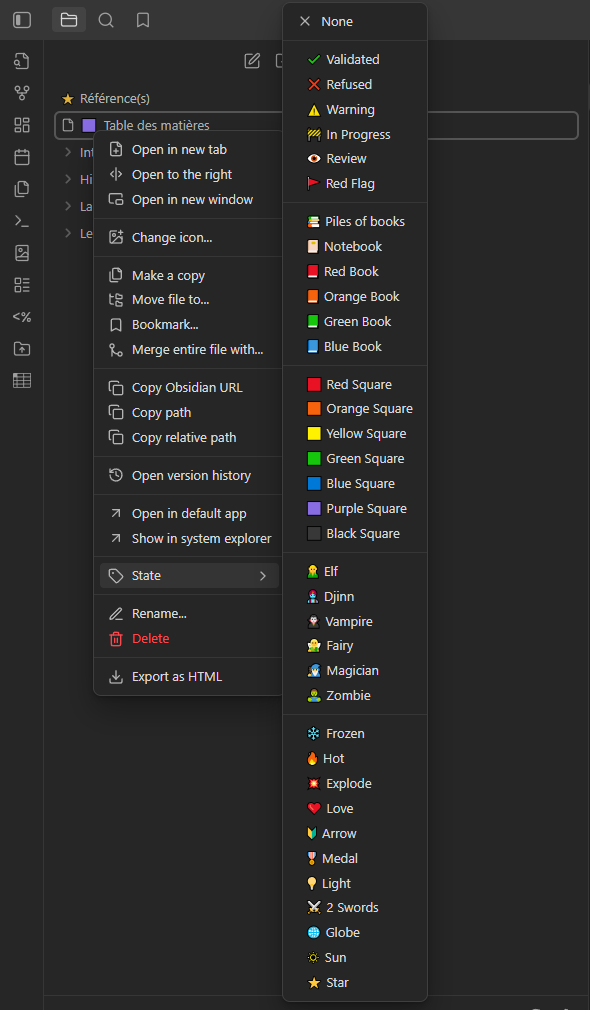
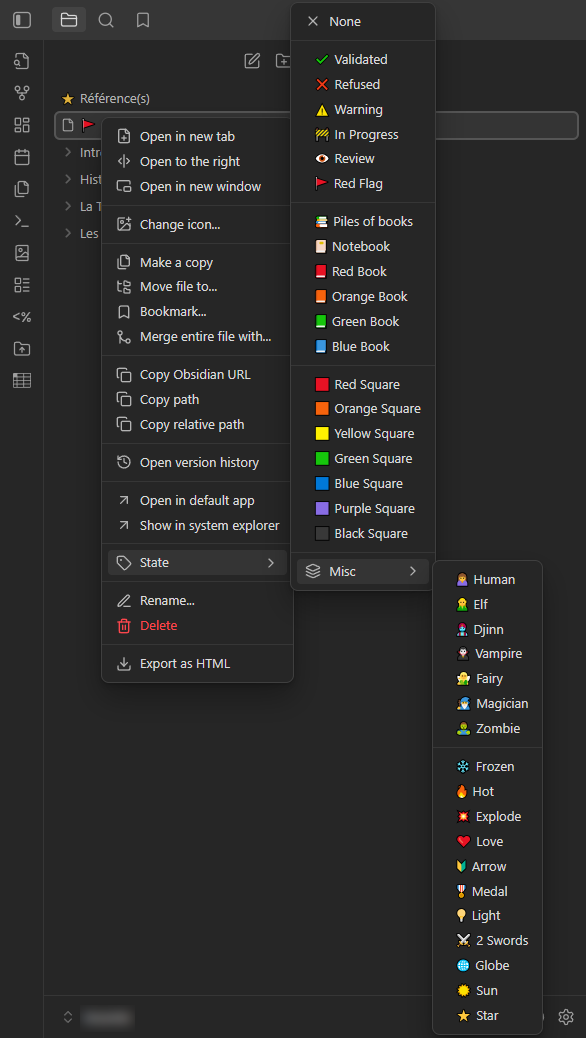
Add files via upload

diff --git a/main.js b/main.js
@@ -3,7 +3,7 @@ const { Plugin, TFolder } = require("obsidian");
 module.exports = class SwefNoteStateIconsPlugin extends Plugin {
 
   async onload() {
-    console.log("SWEF NOTE STATE ICONS LOADED");
+    console.log("Note State Icons Loaded");
 
     // ===== I18N =====
     await this.loadI18n();
@@ -35,15 +35,16 @@ module.exports = class SwefNoteStateIconsPlugin extends Plugin {
       "squarepurple": { icon: "🟪", color: "#000000", labelKey: "state.squarepurple" },
       "squareblack":  { icon: "⬛", color: "#000000", labelKey: "state.squareblack" },
 
-	  // --- Group 4 : Species ---
-	  "elf":       	  { icon: "🧝", color: "#000000", labelKey: "state.elf" },
-	  "djinn":        { icon: "🧞", color: "#000000", labelKey: "state.djinn" },
-	  "vampire":      { icon: "🧛", color: "#000000", labelKey: "state.vampire" },
-	  "fairy":        { icon: "🧚", color: "#000000", labelKey: "state.fairy" },
-	  "magician":     { icon: "🧙", color: "#000000", labelKey: "state.magician" },
-	  "zombie":       { icon: "🧟", color: "#000000", labelKey: "state.zombie" },
-      
-	  // --- Group 5 : Misc ---
+      // --- Group 4 : Species ---
+      "human":  	  { icon: "🙍", color: "#000000", labelKey: "state.human" },
+      "elf":          { icon: "🧝", color: "#000000", labelKey: "state.elf" },
+      "djinn":        { icon: "🧞", color: "#000000", labelKey: "state.djinn" },
+      "vampire":      { icon: "🧛", color: "#000000", labelKey: "state.vampire" },
+      "fairy":        { icon: "🧚", color: "#000000", labelKey: "state.fairy" },
+      "magician":     { icon: "🧙", color: "#000000", labelKey: "state.magician" },
+      "zombie":       { icon: "🧟", color: "#000000", labelKey: "state.zombie" },
+
+      // --- Group 5 : Misc ---
       "frozen":       { icon: "❄", color: "#000000", labelKey: "state.frozen" },
       "hot":          { icon: "🔥", color: "#000000", labelKey: "state.hot" },
       "explode":      { icon: "💥", color: "#000000", labelKey: "state.explode" },
@@ -53,13 +54,13 @@ module.exports = class SwefNoteStateIconsPlugin extends Plugin {
       "light":        { icon: "💡", color: "#000000", labelKey: "state.light" },
       "2swords":      { icon: "⚔", color: "#000000", labelKey: "state.2swords" },
       "globe":        { icon: "🌐", color: "#000000", labelKey: "state.globe" },
-      "sun":          { icon: "🔅", color: "#000000", labelKey: "state.sun" },
+      "sun":          { icon: "☀", color: "#000000", labelKey: "state.sun" },
       "star":         { icon: "⭐", color: "#000000", labelKey: "state.star" }
     };
 
     this.stateMap = (await this.loadData()) || {};
 
-    // ===== CONTEXT MENU (NOTES + DOSSIERS) =====
+    // ===== CONTEXT MENU =====
     this.registerEvent(
       this.app.workspace.on("file-menu", (menu, file) => {
         if (!file) return;
@@ -74,6 +75,7 @@ module.exports = class SwefNoteStateIconsPlugin extends Plugin {
 
         const stateMenu = menu.items.at(-1).submenu;
 
+        // NONE
         stateMenu.addItem(sub => {
           sub
             .setTitle(this.t("menu.none"))
@@ -87,30 +89,63 @@ module.exports = class SwefNoteStateIconsPlugin extends Plugin {
 
         stateMenu.addSeparator();
 
-        const groups = [
+        // ===== DIRECT STATES (GROUP 1,2,3) =====
+        [
           ["validated","refused","warning","in-progress","review","redflag"],
           ["bookpiles","notebook","bookred","bookorange","bookgreen","bookblue"],
-          ["squarered","squareorange","squareyellow","squaregreen","squareblue","squarepurple","squareblack"],
-		  ["elf","djinn","vampire","fairy","magician","zombie"],
-          ["frozen","hot","explode","love","arrow","medal","light","2swords","globe","sun","star"]
-        ];
-
-        groups.forEach((group, i) => {
+          ["squarered","squareorange","squareyellow","squaregreen","squareblue","squarepurple","squareblack"]
+        ].forEach((group, i) => {
           if (i > 0) stateMenu.addSeparator();
 
-          group.forEach(stateId => {
-            const state = this.states[stateId];
-            if (!state) return;
-
+          group.forEach(id => {
+            const s = this.states[id];
             stateMenu.addItem(sub => {
               sub
-                .setTitle(`${state.icon} ${this.t(state.labelKey)}`)
+                .setTitle(`${s.icon} ${this.t(s.labelKey)}`)
                 .onClick(async () => {
-                  this.stateMap[file.path] = stateId;
+                  this.stateMap[file.path] = id;
                   await this.saveData(this.stateMap);
                   this.triggerFullRefresh();
                 });
             });
+          });
+        });
+
+        // ===== SUBMENU MISC =====
+        stateMenu.addSeparator();
+        stateMenu.addItem(item => {
+          item.setTitle(this.t("menu.misc")).setIcon("layers").setSubmenu();
+        });
+
+        const miscMenu = stateMenu.items.at(-1).submenu;
+
+        // Species
+        ["human","elf","djinn","vampire","fairy","magician","zombie"].forEach(id => {
+          const s = this.states[id];
+          miscMenu.addItem(sub => {
+            sub
+              .setTitle(`${s.icon} ${this.t(s.labelKey)}`)
+              .onClick(async () => {
+                this.stateMap[file.path] = id;
+                await this.saveData(this.stateMap);
+                this.triggerFullRefresh();
+              });
+          });
+        });
+
+        miscMenu.addSeparator();
+
+        // Misc
+        ["frozen","hot","explode","love","arrow","medal","light","2swords","globe","sun","star"].forEach(id => {
+          const s = this.states[id];
+          miscMenu.addItem(sub => {
+            sub
+              .setTitle(`${s.icon} ${this.t(s.labelKey)}`)
+              .onClick(async () => {
+                this.stateMap[file.path] = id;
+                await this.saveData(this.stateMap);
+                this.triggerFullRefresh();
+              });
           });
         });
       })
@@ -200,6 +235,6 @@ module.exports = class SwefNoteStateIconsPlugin extends Plugin {
   }
 
   onunload() {
-    console.log("SWEF NOTE STATE ICONS UNLOADED");
+    console.log("Note State Icons Unloaded");
   }
 };
